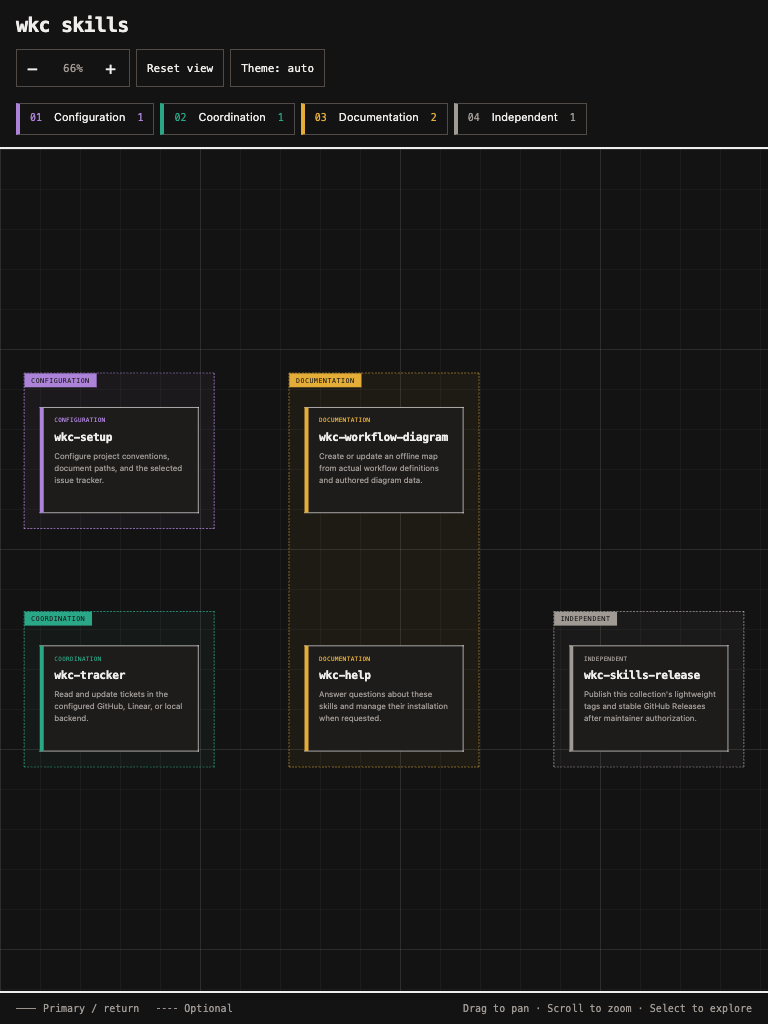
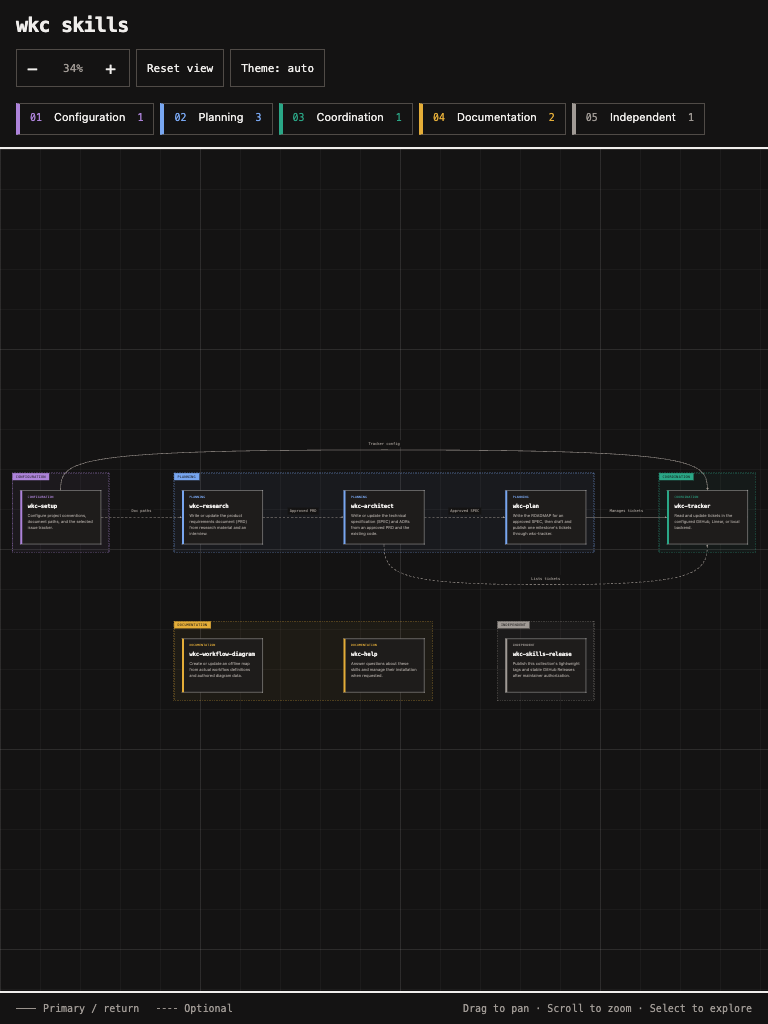
docs: map planning skills as a left-to-right workflow
Add wkc-research, wkc-architect, and wkc-plan to the workflow diagram and
lay the main flow out in one row: setup, research, architect, plan,
tracker. Documentation and independent skills move to a lower row.

Arrows now show calls and handoffs. Optional document handoffs are dashed
because the PRD, SPEC, and ROADMAP stages can be skipped. The tracker card
lists the new milestone verbs.

diff --git a/docs/dev-agents/diagram/diagram.html b/docs/dev-agents/diagram/diagram.html
@@ -3,7 +3,7 @@
 <title>wkc skills</title>
 <style>html,body{margin:0;height:100%;background:#f3f2f2}#diagram{height:100dvh;min-height:320px}noscript{font:16px sans-serif;padding:24px;display:block}</style>
 </head><body><main id="diagram" tabindex="-1"></main><noscript>Enable JavaScript to explore this workflow diagram.</noscript>
-<script id="diagram-data" type="application/json">{"workflow":{"schemaVersion":1,"title":"wkc skills","lanes":[{"id":"configuration","label":"Configuration","color":{"light":"#7a4fa8","dark":"#ad83da"}},{"id":"coordination","label":"Coordination","color":{"light":"#12775e","dark":"#2aa787"}},{"id":"documentation","label":"Documentation","color":{"light":"#a36600","dark":"#e4ad38"}},{"id":"independent","label":"Independent","color":{"light":"#6f6a65","dark":"#a09a95"}}],"nodes":[{"id":"setup","label":"wkc-setup","lane":"configuration","summary":"Configure project conventions, document paths, and the selected issue tracker.","details":{"body":"Interview the user and record choices in docs/dev-agents/config.md, with one reference in the project context file. Output: project configuration, rules, and context references; create missing GitHub status labels for this repository’s selected tracker.","when":"Use when adopting the development skills or changing project configuration.","commands":[{"label":"Codex","text":"$wkc-setup"},{"label":"Claude Code / Kiro CLI","text":"/wkc-setup"}],"links":[{"label":"Read the wkc-setup skill","href":"https://github.com/wilsonkichoi/skills/blob/main/skills/wkc-setup/SKILL.md"},{"label":"Project backend configuration","href":"https://github.com/wilsonkichoi/skills/blob/main/docs/dev-agents/config.md"}]},"kind":"skill"},{"id":"tracker","label":"wkc-tracker","lane":"coordination","summary":"Read and update tickets in the configured GitHub, Linear, or local backend.","details":{"body":"Reads issue_tracker from docs/dev-agents/config.md, which wkc-setup writes. Reads and changes GitHub Issues here; provides list, show, next, create, assign, comment, move, and link across seven statuses.","when":"Use after wkc-setup to read tickets, change ticket state, or find work ready to start.","commands":[{"label":"Codex","text":"$wkc-tracker list"},{"label":"Claude Code / Kiro CLI","text":"/wkc-tracker list"}],"links":[{"label":"Read the wkc-tracker skill","href":"https://github.com/wilsonkichoi/skills/blob/main/skills/wkc-tracker/SKILL.md"},{"label":"Tracker reference","href":"https://github.com/wilsonkichoi/skills/blob/main/skills/wkc-tracker/README.md"},{"label":"GitHub tracker operations","href":"https://github.com/wilsonkichoi/skills/blob/main/skills/wkc-tracker/github.md"}]},"kind":"skill"},{"id":"workflow-diagram","label":"wkc-workflow-diagram","lane":"documentation","summary":"Create or update an offline map from actual workflow definitions and authored diagram data.","details":{"body":"Output: workflow.json, layout.json, offline HTML, notes, and screenshots under docs/dev-agents/diagram/. Read skill definitions without executing them; wkc-setup and config are optional.","when":"Use to explain project skills or update a map after workflow changes.","commands":[{"label":"Codex","text":"$wkc-workflow-diagram"},{"label":"Claude Code / Kiro CLI","text":"/wkc-workflow-diagram"}],"links":[{"label":"Read the diagram skill","href":"https://github.com/wilsonkichoi/skills/blob/main/skills/wkc-workflow-diagram/SKILL.md"},{"label":"Authoring guide","href":"https://github.com/wilsonkichoi/skills/blob/main/skills/wkc-workflow-diagram/README.md"}]},"kind":"skill"},{"id":"help","label":"wkc-help","lane":"documentation","summary":"Answer questions about these skills and manage their installation when requested.","details":{"body":"Read installed definitions to explain skill behavior and invocation. Use npx skills to install, pin, update, or remove skills only when a person requests the change; installation does not invoke installed skills.","when":"Use for questions about these skills, their installed versions, or installation management.","commands":[{"label":"Codex","text":"$wkc-help"},{"label":"Claude Code / Kiro CLI","text":"/wkc-help"}],"links":[{"label":"Read the wkc-help skill","href":"https://github.com/wilsonkichoi/skills/blob/main/skills/wkc-help/SKILL.md"},{"label":"Installer command rules","href":"https://github.com/wilsonkichoi/skills/blob/main/skills/wkc-help/SKILL.md#5-running-commands"}]},"kind":"skill"},{"id":"skills-release","label":"wkc-skills-release","summary":"Publish this collection's lightweight tags and stable GitHub Releases after maintainer authorization.","details":{"body":"Internal maintainer skill for wilsonkichoi/skills, excluded from ordinary bulk installation. Output: verified lightweight tags and stable GitHub Releases; publish merged work from clean synchronized main with authenticated GitHub access, without setup or project configuration.","when":"Use when the maintainer explicitly requests a collection release or recovery after interrupted publication.","commands":[{"label":"Codex","text":"$wkc-skills-release"},{"label":"Claude Code / Kiro CLI","text":"/wkc-skills-release"}],"links":[{"label":"Read the release skill","href":"https://github.com/wilsonkichoi/skills/blob/main/skills/wkc-skills-release/SKILL.md"},{"label":"Bootstrap and pin instructions","href":"https://github.com/wilsonkichoi/skills/blob/main/skills/wkc-skills-release/README.md"},{"label":"Publication and verification","href":"https://github.com/wilsonkichoi/skills/blob/main/skills/wkc-skills-release/SKILL.md#5-publish-and-verify"}]},"lane":"independent","kind":"skill"}],"edges":[]},"layout":{"schemaVersion":1,"nodes":{"setup":{"x":0,"y":0},"tracker":{"x":0,"y":360},"workflow-diagram":{"x":400,"y":0},"help":{"x":400,"y":360},"skills-release":{"x":800,"y":360}},"edges":{},"regions":[{"lane":"configuration","x":-24,"y":-52,"width":288,"height":236},{"lane":"coordination","x":-24,"y":308,"width":288,"height":236},{"lane":"documentation","x":376,"y":-52,"width":288,"height":596},{"lane":"independent","x":776,"y":308,"width":288,"height":236}]}}</script>
+<script id="diagram-data" type="application/json">{"workflow":{"schemaVersion":1,"title":"wkc skills","lanes":[{"id":"configuration","label":"Configuration","color":{"light":"#7a4fa8","dark":"#ad83da"}},{"id":"planning","label":"Planning","color":{"light":"#2f62b5","dark":"#78a6f0"}},{"id":"coordination","label":"Coordination","color":{"light":"#12775e","dark":"#2aa787"}},{"id":"documentation","label":"Documentation","color":{"light":"#a36600","dark":"#e4ad38"}},{"id":"independent","label":"Independent","color":{"light":"#6f6a65","dark":"#a09a95"}}],"nodes":[{"id":"setup","label":"wkc-setup","lane":"configuration","summary":"Configure project conventions, document paths, and the selected issue tracker.","details":{"body":"Interview the user and record choices in docs/dev-agents/config.md, with one reference in the project context file. Output: project configuration, rules, and context references; create missing GitHub status labels for this repository’s selected tracker.","when":"Use when adopting the development skills or changing project configuration.","commands":[{"label":"Codex","text":"$wkc-setup"},{"label":"Claude Code / Kiro CLI","text":"/wkc-setup"}],"links":[{"label":"Read the wkc-setup skill","href":"https://github.com/wilsonkichoi/skills/blob/main/skills/wkc-setup/SKILL.md"},{"label":"Project backend configuration","href":"https://github.com/wilsonkichoi/skills/blob/main/docs/dev-agents/config.md"}]},"kind":"skill"},{"id":"research","label":"wkc-research","lane":"planning","summary":"Write or update the product requirements document (PRD) from research material and an interview.","details":{"body":"Reads config, context, rules, the current PRD, and supplied material, then asks only what the material leaves open. Output: the PRD at `prd_file`, default docs/dev-agents/PRD.md, with a draft or approved status line; wkc-architect reads an approved PRD next.","when":"Use when starting a product or making a change that shifts its goals, users, or scope.","commands":[{"label":"Codex","text":"$wkc-research"},{"label":"Claude Code / Kiro CLI","text":"/wkc-research"}],"links":[{"label":"Read the wkc-research skill","href":"https://github.com/wilsonkichoi/skills/blob/main/skills/wkc-research/SKILL.md"},{"label":"PRD approval","href":"https://github.com/wilsonkichoi/skills/blob/main/skills/wkc-research/SKILL.md#4-approval"}]},"kind":"skill"},{"id":"architect","label":"wkc-architect","lane":"planning","summary":"Write or update the technical specification (SPEC) and ADRs from an approved PRD and the existing code.","details":{"body":"Shows options and tradeoffs before committing to a choice, and writes an ADR only for a decision costly to reverse. Output: the SPEC at `spec_file` and ADRs; a contract change with a configured tracker lists affected open tickets through wkc-tracker list.","when":"Use after a PRD is approved, or for a change that needs new contracts, components, or a recorded decision.","commands":[{"label":"Codex","text":"$wkc-architect"},{"label":"Claude Code / Kiro CLI","text":"/wkc-architect"}],"links":[{"label":"Read the wkc-architect skill","href":"https://github.com/wilsonkichoi/skills/blob/main/skills/wkc-architect/SKILL.md"},{"label":"SPEC outline","href":"https://github.com/wilsonkichoi/skills/blob/main/skills/wkc-architect/SKILL.md#4-write-the-spec"}]},"kind":"skill"},{"id":"plan","label":"wkc-plan","lane":"planning","summary":"Write the ROADMAP for an approved SPEC, then draft and publish one milestone's tickets through wkc-tracker.","details":{"body":"Orders milestones by dependency and risk, then drafts tickets with a checked dependency graph and waves. Output: the ROADMAP at `roadmap_file`; after approval, tickets created, linked, and moved to `ready` only through wkc-tracker verbs.","when":"Use when an approved design needs milestones and tickets, or when the next milestone needs tickets.","commands":[{"label":"Codex","text":"$wkc-plan"},{"label":"Claude Code / Kiro CLI","text":"/wkc-plan"}],"links":[{"label":"Read the wkc-plan skill","href":"https://github.com/wilsonkichoi/skills/blob/main/skills/wkc-plan/SKILL.md"},{"label":"Publishing order","href":"https://github.com/wilsonkichoi/skills/blob/main/skills/wkc-plan/SKILL.md#6-publish"}]},"kind":"skill"},{"id":"tracker","label":"wkc-tracker","lane":"coordination","summary":"Read and update tickets in the configured GitHub, Linear, or local backend.","details":{"body":"Reads issue_tracker from docs/dev-agents/config.md, which wkc-setup writes. Reads and changes GitHub Issues here; provides list, show, next, create, assign, comment, move, link, and milestone across seven statuses.","when":"Use after wkc-setup to read tickets, change ticket state, or find work ready to start.","commands":[{"label":"Codex","text":"$wkc-tracker list"},{"label":"Claude Code / Kiro CLI","text":"/wkc-tracker list"}],"links":[{"label":"Read the wkc-tracker skill","href":"https://github.com/wilsonkichoi/skills/blob/main/skills/wkc-tracker/SKILL.md"},{"label":"Tracker reference","href":"https://github.com/wilsonkichoi/skills/blob/main/skills/wkc-tracker/README.md"},{"label":"GitHub tracker operations","href":"https://github.com/wilsonkichoi/skills/blob/main/skills/wkc-tracker/github.md"}]},"kind":"skill"},{"id":"workflow-diagram","label":"wkc-workflow-diagram","lane":"documentation","summary":"Create or update an offline map from actual workflow definitions and authored diagram data.","details":{"body":"Output: workflow.json, layout.json, offline HTML, notes, and screenshots under docs/dev-agents/diagram/. Read skill definitions without executing them; wkc-setup and config are optional.","when":"Use to explain project skills or update a map after workflow changes.","commands":[{"label":"Codex","text":"$wkc-workflow-diagram"},{"label":"Claude Code / Kiro CLI","text":"/wkc-workflow-diagram"}],"links":[{"label":"Read the diagram skill","href":"https://github.com/wilsonkichoi/skills/blob/main/skills/wkc-workflow-diagram/SKILL.md"},{"label":"Authoring guide","href":"https://github.com/wilsonkichoi/skills/blob/main/skills/wkc-workflow-diagram/README.md"}]},"kind":"skill"},{"id":"help","label":"wkc-help","lane":"documentation","summary":"Answer questions about these skills and manage their installation when requested.","details":{"body":"Read installed definitions to explain skill behavior and invocation. Use npx skills to install, pin, update, or remove skills only when a person requests the change; installation does not invoke installed skills.","when":"Use for questions about these skills, their installed versions, or installation management.","commands":[{"label":"Codex","text":"$wkc-help"},{"label":"Claude Code / Kiro CLI","text":"/wkc-help"}],"links":[{"label":"Read the wkc-help skill","href":"https://github.com/wilsonkichoi/skills/blob/main/skills/wkc-help/SKILL.md"},{"label":"Installer command rules","href":"https://github.com/wilsonkichoi/skills/blob/main/skills/wkc-help/SKILL.md#5-running-commands"}]},"kind":"skill"},{"id":"skills-release","label":"wkc-skills-release","summary":"Publish this collection's lightweight tags and stable GitHub Releases after maintainer authorization.","details":{"body":"Internal maintainer skill for wilsonkichoi/skills, excluded from ordinary bulk installation. Output: verified lightweight tags and stable GitHub Releases; publish merged work from clean synchronized main with authenticated GitHub access, without setup or project configuration.","when":"Use when the maintainer explicitly requests a collection release or recovery after interrupted publication.","commands":[{"label":"Codex","text":"$wkc-skills-release"},{"label":"Claude Code / Kiro CLI","text":"/wkc-skills-release"}],"links":[{"label":"Read the release skill","href":"https://github.com/wilsonkichoi/skills/blob/main/skills/wkc-skills-release/SKILL.md"},{"label":"Bootstrap and pin instructions","href":"https://github.com/wilsonkichoi/skills/blob/main/skills/wkc-skills-release/README.md"},{"label":"Publication and verification","href":"https://github.com/wilsonkichoi/skills/blob/main/skills/wkc-skills-release/SKILL.md#5-publish-and-verify"}]},"lane":"independent","kind":"skill"}],"edges":[{"id":"setup-research","from":"setup","to":"research","kind":"optional","label":"Doc paths"},{"id":"research-architect","from":"research","to":"architect","kind":"optional","label":"Approved PRD"},{"id":"architect-plan","from":"architect","to":"plan","kind":"optional","label":"Approved SPEC"},{"id":"plan-tracker","from":"plan","to":"tracker","label":"Manages tickets","kind":"primary"},{"id":"architect-tracker","from":"architect","to":"tracker","kind":"optional","label":"Lists tickets"},{"id":"setup-tracker","from":"setup","to":"tracker","label":"Tracker config","kind":"primary"}]},"layout":{"schemaVersion":1,"nodes":{"setup":{"x":0,"y":0},"research":{"x":480,"y":0},"architect":{"x":960,"y":0},"plan":{"x":1440,"y":0},"tracker":{"x":1920,"y":0},"workflow-diagram":{"x":480,"y":440},"help":{"x":960,"y":440},"skills-release":{"x":1440,"y":440}},"edges":{"setup-research":{"start":[240,80],"segments":[[320,80,400,80,480,80]]},"research-architect":{"start":[720,80],"segments":[[800,80,880,80,960,80]]},"architect-plan":{"start":[1200,80],"segments":[[1280,80,1360,80,1440,80]]},"plan-tracker":{"start":[1680,80],"segments":[[1760,80,1840,80,1920,80]]},"architect-tracker":{"start":[1080,160],"segments":[[1080,250,1120,280,1560,280],[2000,280,2040,250,2040,160]]},"setup-tracker":{"start":[120,0],"segments":[[120,-90,150,-120,1080,-120],[2010,-120,2040,-90,2040,0]]}},"regions":[{"lane":"configuration","x":-24,"y":-52,"width":288,"height":236},{"lane":"planning","x":456,"y":-52,"width":1248,"height":236},{"lane":"coordination","x":1896,"y":-52,"width":288,"height":236},{"lane":"documentation","x":456,"y":388,"width":768,"height":236},{"lane":"independent","x":1416,"y":388,"width":288,"height":236}]}}</script>
 <script>/*!
 MIT License
 

diff --git a/docs/dev-agents/diagram/README.md b/docs/dev-agents/diagram/README.md
@@ -7,15 +7,29 @@ Width stays between 280 pixels and the canvas width minus 200 pixels. It persist
 Narrow layouts keep the full-width bottom sheet.
 The default zoom is 70%, or smaller when needed to fit. Selection centers the card in available space at the current zoom.
 Closing slides the panel away without changing card positions or zoom.
-Tinted boxes group Configuration, Coordination, Documentation, and Independent cards. Purple, green, amber, and gray distinguish those regions in both themes.
-The map contains all five shipped definitions in this repository: `wkc-setup`, `wkc-tracker`,
-`wkc-workflow-diagram`, `wkc-help`, and internal `wkc-skills-release`. Planned skills are excluded.
+Tinted boxes group Configuration, Planning, Coordination, Documentation, and Independent cards. Purple, blue, green, amber, and gray distinguish those regions in both themes.
+The map contains all eight shipped definitions in this repository: `wkc-setup`, `wkc-research`, `wkc-architect`,
+`wkc-plan`, `wkc-tracker`, `wkc-workflow-diagram`, `wkc-help`, and internal `wkc-skills-release`.
+Planned skills are excluded.
 Every card is a skill. External systems, outputs, and results appear in the owning skill's details.
 The four system cards and their six action arrows are removed at the user's direction.
-No skill-to-skill runtime action is established by these definitions, so the current map has no arrows.
-The configured backend and prerequisite remain in tracker details. Help's installer operations remain conditional on a person's request.
-Future arrows default to workflow actions and runtime interactions between skills, following the meaning requested from `.local/architecture.excalidraw`.
-They do not show prerequisites or automatic skill invocation. The sketch supplies no planned skills or obsolete distribution details.
+
+The map exists to show how the skills connect in a development workflow, so a person knows which one to run next.
+The main flow runs left to right in one row: setup, research, architect, plan, tracker.
+Documentation and Independent cards sit in a lower row, out of the main flow, at the user's direction.
+Card order (Previous/Next) and lane chip order follow the same flow.
+
+Arrows show the workflow, at the user's direction on 2026-10-19. There are two kinds:
+
+- **Calls** (verb labels): one skill runs another skill's verbs. Solid when the call always happens, dashed when it is conditional.
+- **Handoffs** (labels name what is handed over): a skill writes something the next skill reads, and its report or contract names that next step.
+  A person starts the next skill. Dashed when the next skill works without it.
+
+The PRD → SPEC → ROADMAP handoffs are dashed because the lifecycle documents are optional, not a pipeline (`AGENTS.md`):
+each skill says small work skips it, and architect and plan offer to proceed on stated intent without an approved document.
+Setup → research is dashed because research falls back to `docs/dev-agents/PRD.md` without config.
+Setup → tracker is solid because tracker stops without the config that setup writes.
+The arrows do not claim automatic skill invocation. Help's installer operations remain conditional on a person's request.
 `wkc-skills-release` publishes this collection without setup or project configuration.
 
 ## Sources and ownership
@@ -27,6 +41,18 @@ They do not show prerequisites or automatic skill invocation. The sketch supplie
 | wkc-workflow-diagram | [skills/wkc-workflow-diagram/SKILL.md](../../../skills/wkc-workflow-diagram/SKILL.md) | Read definitions and update offline diagrams without executing the skills |
 | wkc-help | [skills/wkc-help/SKILL.md](../../../skills/wkc-help/SKILL.md) | Answers from installed definitions; gives installer commands and runs changes only on a person's request |
 | wkc-skills-release | [skills/wkc-skills-release/SKILL.md](../../../skills/wkc-skills-release/SKILL.md) | Internal maintainer skill; clean synchronized main and authenticated GitHub access; merged collection publication without setup |
+| wkc-research | [skills/wkc-research/SKILL.md](../../../skills/wkc-research/SKILL.md) | Writes only the PRD at `prd_file`; approval status line; no tracker; callers are people |
+| wkc-architect | [skills/wkc-architect/SKILL.md](../../../skills/wkc-architect/SKILL.md) | Writes only the SPEC at `spec_file` and ADRs; `wkc-tracker list` when updating with a configured tracker; callers are people |
+| wkc-plan | [skills/wkc-plan/SKILL.md](../../../skills/wkc-plan/SKILL.md) | Writes the ROADMAP at `roadmap_file`; every ticket read and write through `wkc-tracker` verbs; callers are people |
+
+| Edge | Kind | Source evidence |
+| --- | --- | --- |
+| setup → research: Doc paths | Handoff, dashed | Setup section B records the PRD, SPEC, and ROADMAP paths "so later skills read the right files"; section 3 names research, architect, and plan as their writers. Research's Dependencies read `prd_file` from config, falling back to the default |
+| setup → tracker: Tracker config | Handoff, solid | Setup's What it does: writes `docs/dev-agents/config.md`, "which `wkc-tracker` reads"; its report's next step is `wkc-tracker list`. Tracker section 1 stops and asks for `wkc-setup` when the config names no backend |
+| research → architect: Approved PRD | Handoff, dashed | Research's Output: "`wkc-architect` reads an approved PRD next"; section 5 names it as the next step. Architect section 1 requires an approved PRD or offers to proceed on stated intent |
+| architect → plan: Approved SPEC | Handoff, dashed | Architect's Output: "`wkc-plan` reads an approved SPEC next"; section 6 names it as the next step. Plan section 1 requires an approved SPEC or offers to plan from stated intent |
+| plan → tracker: Manages tickets | Call, solid | Plan's Dependencies name `wkc-tracker` for `list`, `show`, `milestone`, `create`, `link`, and `move`; sections 1 and 6 reach tickets only through those verbs |
+| architect → tracker: Lists tickets | Call, dashed | Architect's Dependencies and section 4: on a contract change with a configured tracker, list open tickets through the `wkc-tracker` `list` verb |
 
 Setup and diagram file outputs are described in their own cards. Setup's label creation and tracker's GitHub Issues operations use
 [docs/dev-agents/config.md](../config.md) as backend evidence. Help's card describes the installer; the release card describes tags and GitHub Releases.
@@ -74,7 +100,7 @@ Do not edit diagram.html directly. Keep temporary artifacts in the ignored `.cac
 | Phone details | [Image](screenshots/phone-light-details.png) | [Image](screenshots/phone-dark-details.png) |
 | Phone help details | [Image](screenshots/phone-light-help-details.png) | [Image](screenshots/phone-dark-help-details.png) |
 
-The current details screenshots select `wkc-skills-release`; the help screenshots select `wkc-help`.
+The current details screenshots select `wkc-plan`; the help screenshots select `wkc-help`.
 The dated results below describe earlier versions of the map.
 
 On 2026-09-24, Chromium loaded the three-node HTML offline at 1440 × 900, 768 × 1024, and
@@ -84,6 +110,41 @@ Desktop light overview and phone dark details screenshots were visually inspecte
 The phone sheet scrolls independently; commands below the fold remain reachable.
 
 ## Implementation verification
+
+### Planning skills and workflow layout, 2026-10-19
+
+Sources were read at repository commit `1e39537`. All eight definitions were readable. Generator **0.0.15**.
+
+Content changes:
+
+- Added `research`, `architect`, and `plan` cards in a new blue Planning lane.
+- Applied the user-approved tracker conflict fix: `details.body` now lists `milestone` among the verbs, after the milestone verbs were added to [skills/wkc-tracker/SKILL.md](../../../skills/wkc-tracker/SKILL.md) section 4.
+- Reviewed every other card against its source. Setup dropped its architecture section and release changed changelog parsing, but no card text mentions either. No other card text changed.
+- Added six edges, listed with their evidence in [Sources and ownership](#sources-and-ownership). The arrow meaning changed from calls only to calls plus handoffs, at the user's direction.
+
+Layout changes, at the user's direction, following the left-to-right style of the user's reference map:
+
+- One main row at y = 0: setup, research, architect, plan, tracker, 480 px apart so every handoff label fits between cards.
+- `setup-tracker` arcs above the row; `architect-tracker` runs in a corridor below it.
+- Documentation (`workflow-diagram`, `help`) and Independent (`skills-release`) cards moved to a lower row at y = 440.
+- Lanes and nodes are reordered to the flow; all routes and regions are rewritten.
+
+Selected checks used Node **v24.11.1** and Chrome **155.0.8059.84** in the current session, without other AI sessions or backend writes.
+
+| Check | Result | Independent evidence |
+| --- | --- | --- |
+| Scope | PASS | Node labels match all eight `skills/*/SKILL.md` directories |
+| Helper check/build | PASS | Documented commands passed with the main documentation base and no warnings; a repeat build was byte-identical |
+| Offline rendering | PASS | `file://` with networking disabled in all six viewport/theme combinations; no HTTP requests, page exceptions, or page overflow |
+| Layout | PASS | Eight fitted cards inside the viewport without overlap; all six edge labels clear of every card and each other. An intermediate placement failed when "Lists tickets" overlapped `wkc-tracker` and was replaced |
+| Keyboard and panels | PASS | Enter opens setup, tracker, help, research, architect, and plan; Tab stays in the panel; Escape returns visible focus; relationship counts match the edges (setup 2, research 2, architect 3, plan 2, tracker 3, help 0) |
+| Commands and navigation | PASS | Six new commands copied exactly through preview; Next from setup visits every card in flow order, then disables |
+| Simulated touch | PASS | Taps on the three new cards open their phone sheets; the last link scrolls into reach |
+| Visual review | PASS, with limits | Inspected desktop light overview, desktop dark plan details, tablet dark overview, and phone light overview. The wide row fits phones only at 17% zoom; cards are readable once selected or zoomed |
+| Preview and browser cleanup | PASS | SIGTERM stopped preview and Chrome by their recorded process IDs; neither endpoint answered afterward |
+| Physical touch, screen readers, Safari, Firefox, pinch and pan | SKIP | Not used; the renderer did not change, so pan and pinch were not rerun |
+
+All 18 screenshots were regenerated. No conflicts or unreadable sources remain. Raw evidence is in the ignored `.cache/planning/` directory.
 
 ### Skill cards only, 2026-10-07
 
